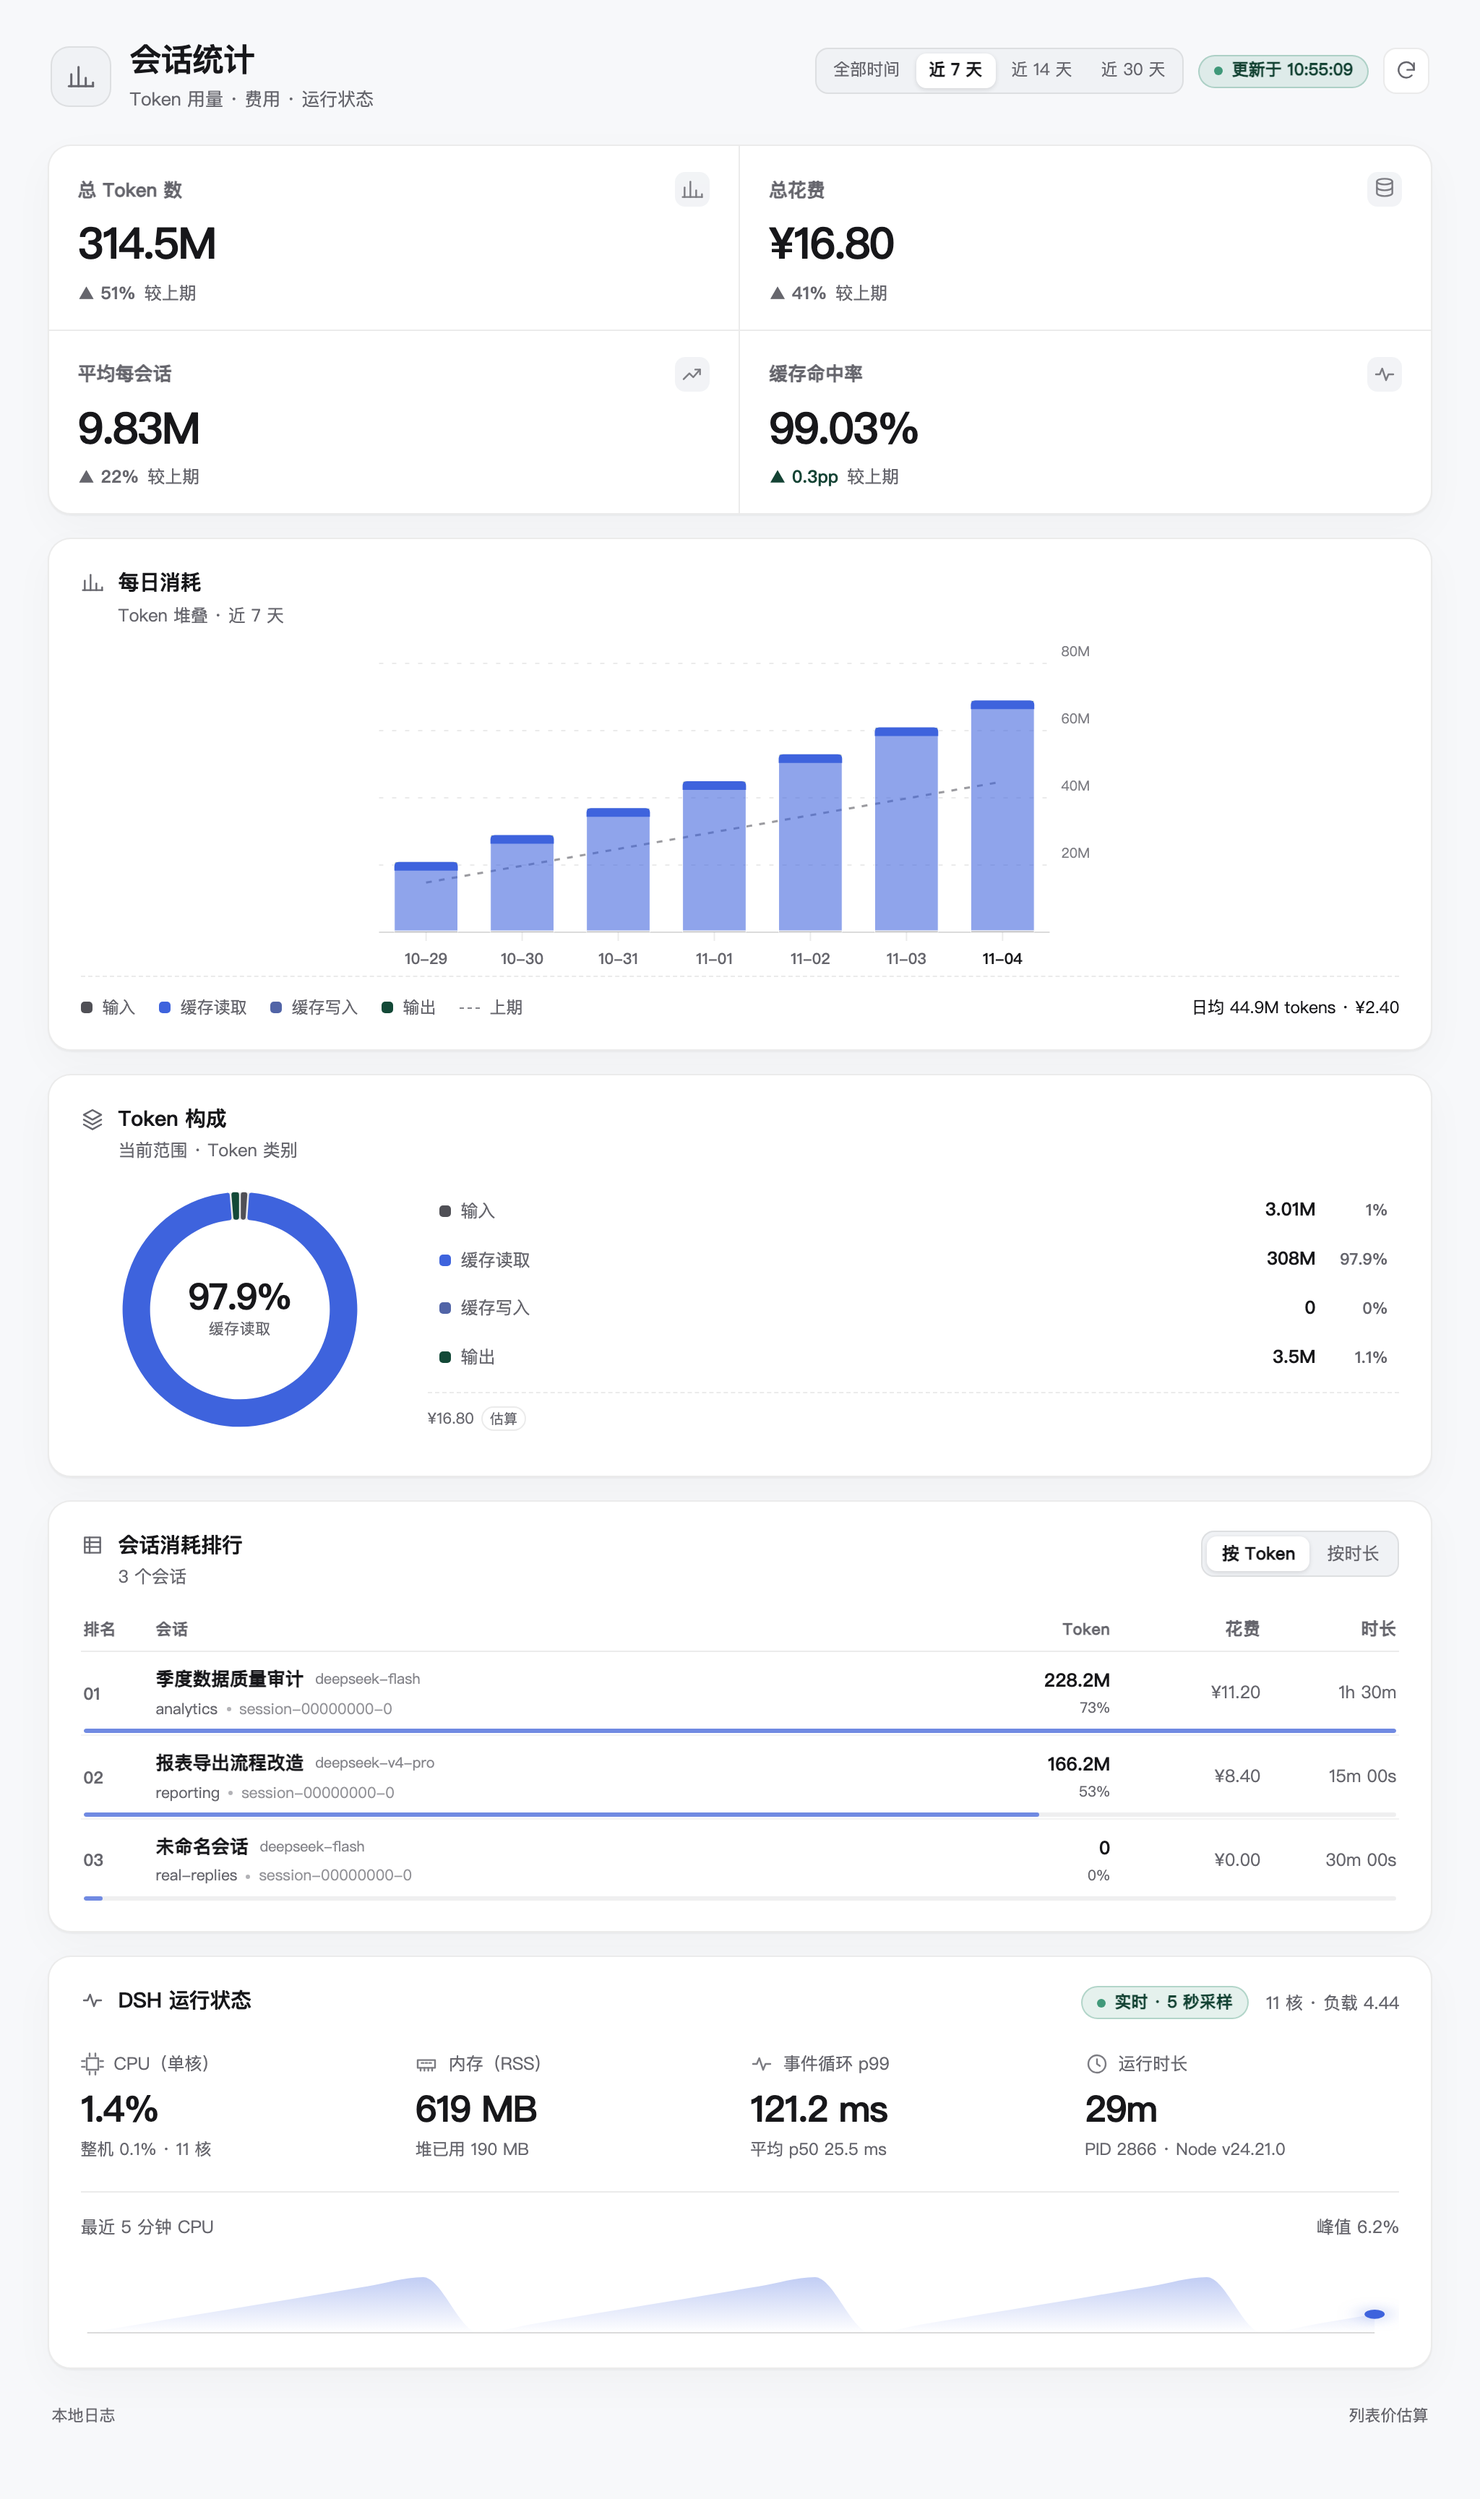
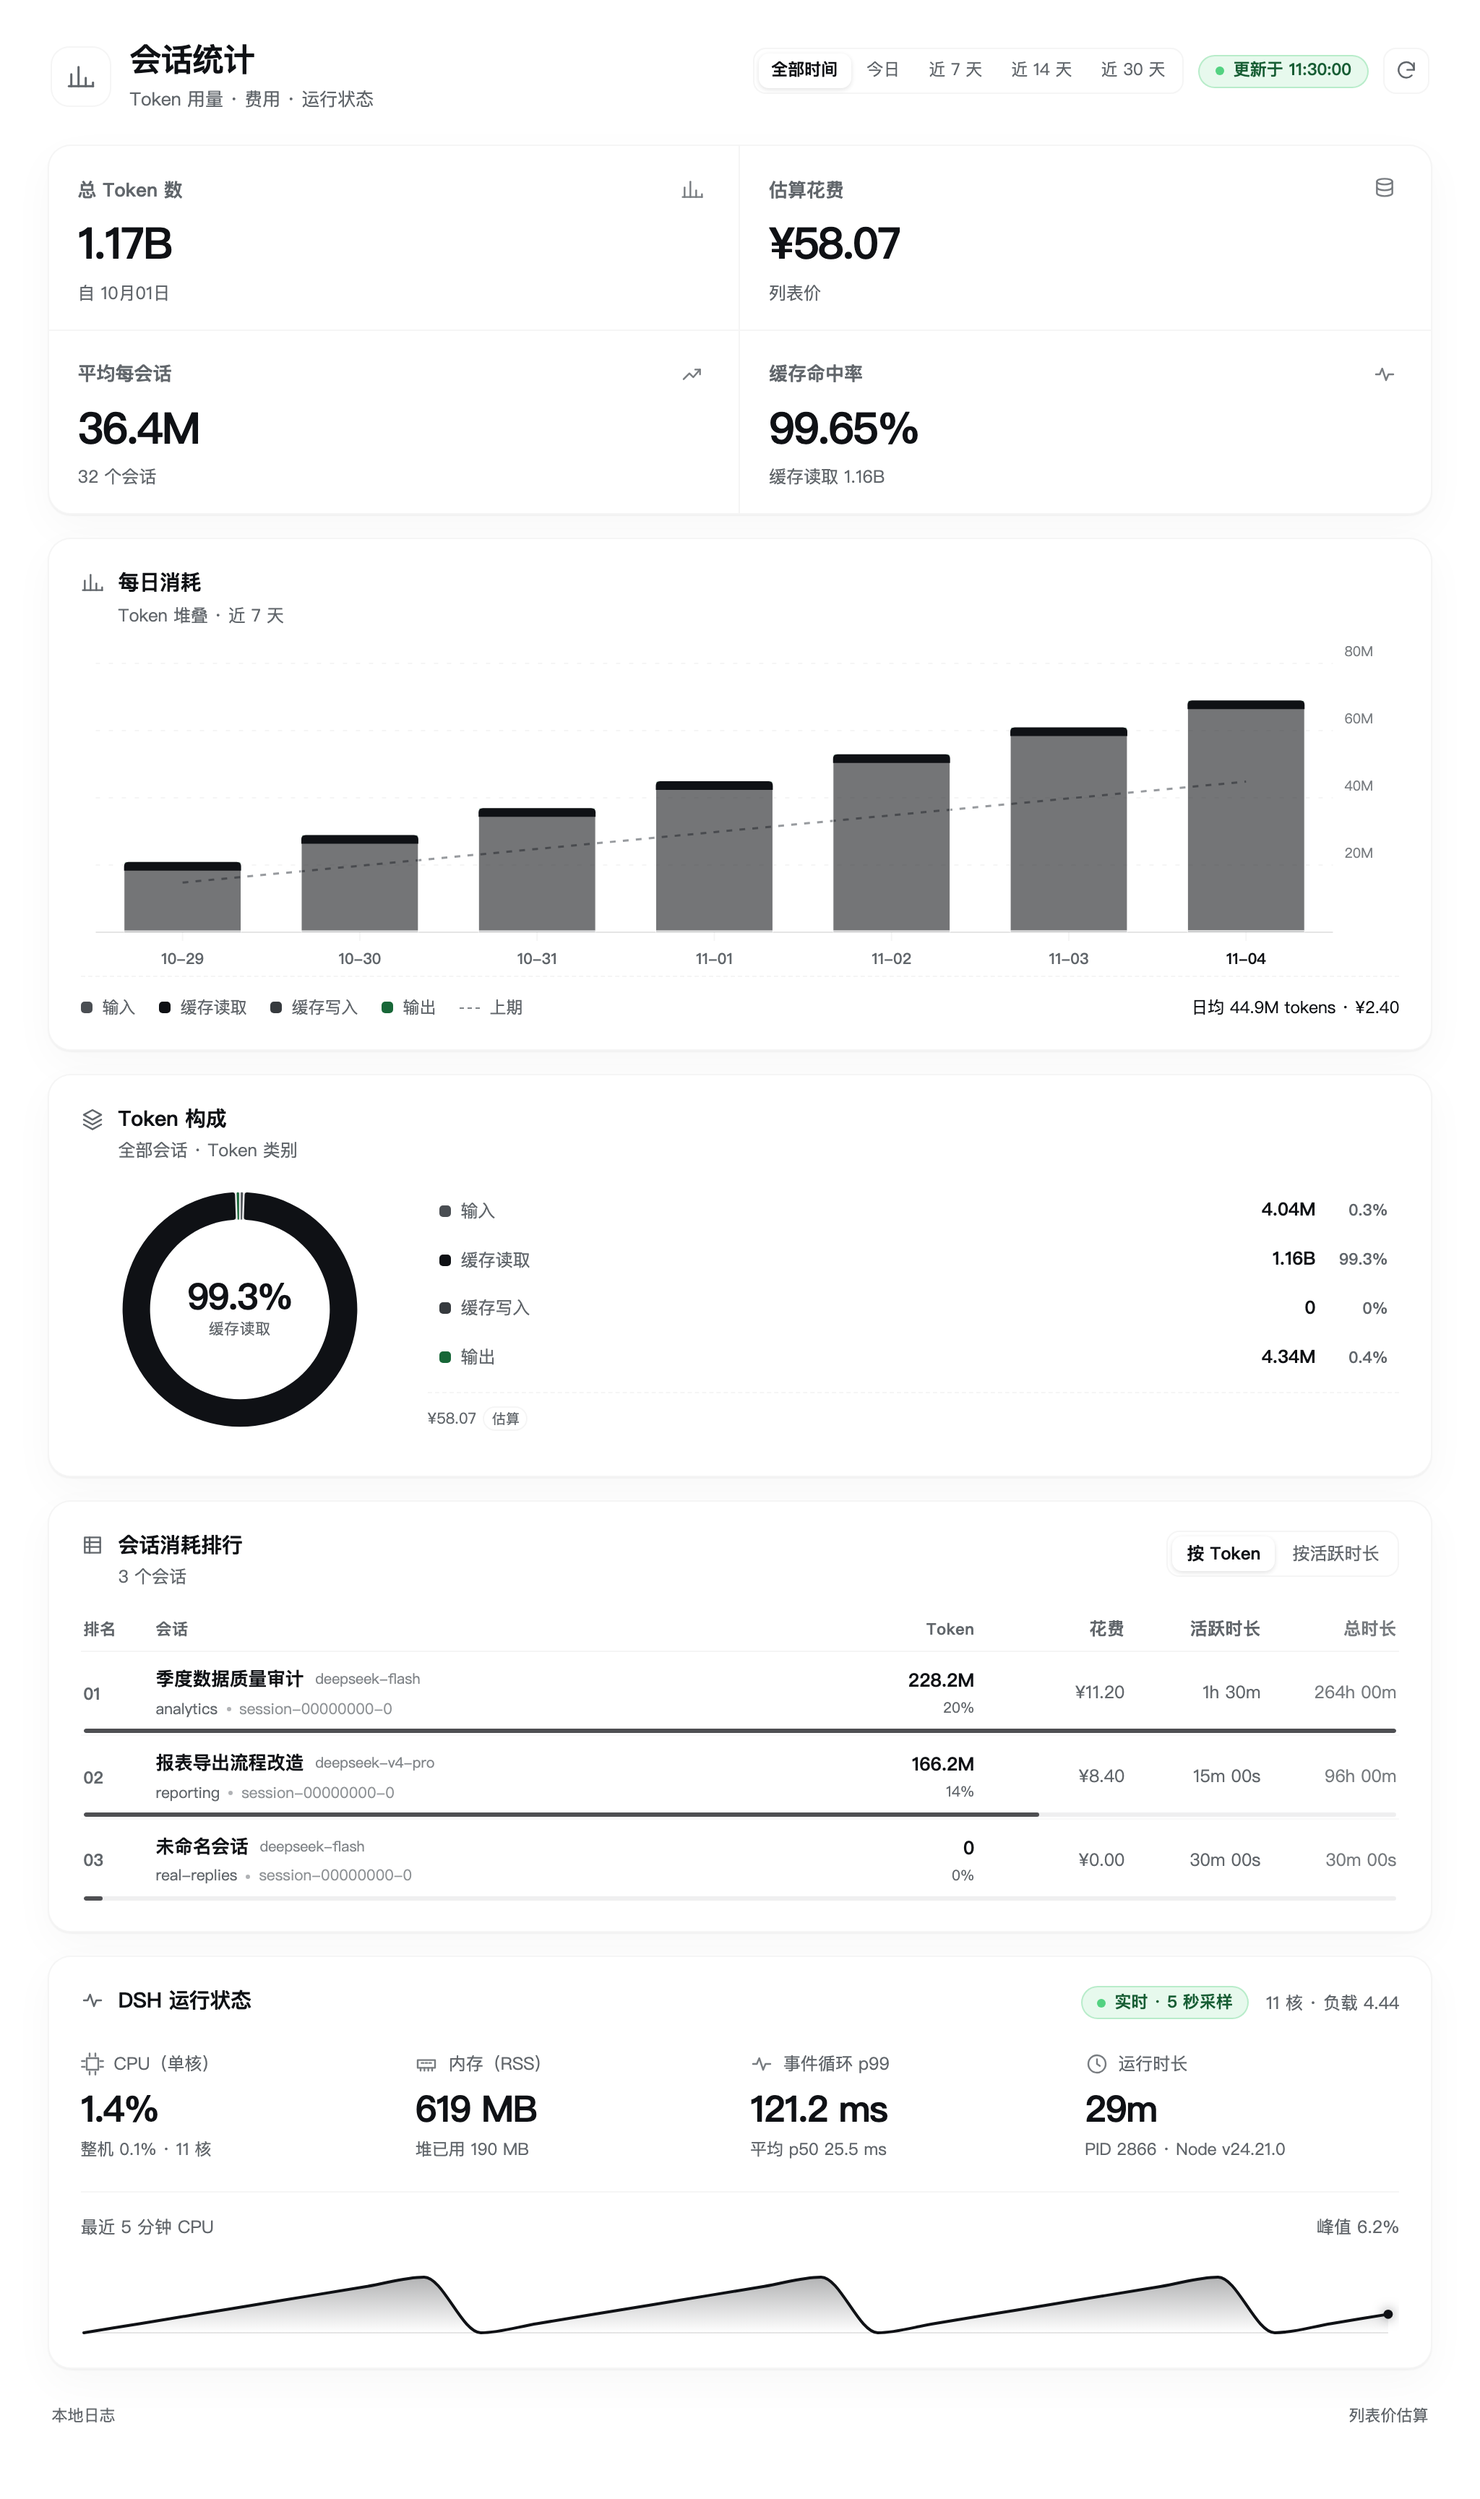
docs: refresh README previews for the current UI
Re-render the dashboard from the current client and the repo's synthetic
fixture at 1440 (light/dark), 1024 and 390, plus the mid-switch pending
state. The previews now show the Today range entry and the active/total
duration columns; the all-time view matches the Host contract
(previous: null), so the KPI strip shows baselines instead of a delta.

Rendering the pending state exposed a contrast regression under current
DSH tokens: the skeleton used --dsw-alias-bg-layer-2, which some themes
resolve to the card surface, leaving only the moving shimmer visible.
Mix the secondary label into that surface for the base and highlight,
and keep the donut placeholder's center bars inside its ring.

Rebuild client.js from the CSS change.

diff --git a/client.js b/client.js
@@ -19,6 +19,11 @@ ${i("kpi.cost.title")}`},{key:"avg",icon:F.createElement(Kn),label:i("kpi.avg"),
   --ss-data-money: color-mix(in srgb, var(--dsw-alias-state-success-primary) 48%, var(--dsw-alias-label-primary));
   --ss-data-input: color-mix(in srgb, var(--dsw-alias-label-secondary) 72%, var(--dsw-alias-label-primary));
   --ss-data-write: color-mix(in srgb, var(--dsw-alias-brand-primary) 52%, var(--dsw-alias-label-secondary));
+  /* Loading placeholders need an opaque tint: \`--dsw-alias-bg-layer-2\` is a
+     pure surface colour and some themes set it to the card background itself,
+     which made the skeleton invisible except for its moving highlight. */
+  --ss-skeleton-base: color-mix(in srgb, var(--dsw-alias-label-secondary) 9%, var(--dsw-alias-bg-layer-2));
+  --ss-skeleton-shine: color-mix(in srgb, var(--dsw-alias-label-secondary) 17%, var(--dsw-alias-bg-layer-2));
   box-sizing: border-box;
   height: 100%;
   min-height: 100%;
@@ -427,9 +432,9 @@ ${i("kpi.cost.title")}`},{key:"avg",icon:F.createElement(Kn),label:i("kpi.avg"),
   border-radius: 7px;
   background: linear-gradient(
     100deg,
-    var(--dsw-alias-bg-layer-2) 20%,
-    color-mix(in srgb, var(--dsw-alias-label-secondary) 14%, var(--dsw-alias-bg-layer-2)) 38%,
-    var(--dsw-alias-bg-layer-2) 56%
+    var(--ss-skeleton-base) 20%,
+    var(--ss-skeleton-shine) 38%,
+    var(--ss-skeleton-base) 56%
   );
   background-size: 220% 100%;
   animation: ss-shimmer 1.5s ease-in-out infinite;
@@ -1310,7 +1315,7 @@ ${i("kpi.cost.title")}`},{key:"avg",icon:F.createElement(Kn),label:i("kpi.avg"),
   position: absolute;
   inset: 8%;
   border-radius: 50%;
-  border: 20px solid var(--dsw-alias-bg-layer-2);
+  border: 20px solid var(--ss-skeleton-base);
   background: transparent;
   animation: none;
 }
@@ -1321,6 +1326,15 @@ ${i("kpi.cost.title")}`},{key:"avg",icon:F.createElement(Kn),label:i("kpi.avg"),
   flex-direction: column;
   align-items: center;
   gap: 8px;
+}
+
+/* Keep the center placeholders inside the ring's inner circle. */
+.ss-donut-skeleton-center .ss-skeleton-value {
+  width: 84px;
+}
+
+.ss-donut-skeleton-center .ss-skeleton-sub {
+  width: 64px;
 }
 
 .ss-composition-value-skeleton {

diff --git a/src/client/styles/base.css b/src/client/styles/base.css
@@ -8,6 +8,11 @@
   --ss-data-money: color-mix(in srgb, var(--dsw-alias-state-success-primary) 48%, var(--dsw-alias-label-primary));
   --ss-data-input: color-mix(in srgb, var(--dsw-alias-label-secondary) 72%, var(--dsw-alias-label-primary));
   --ss-data-write: color-mix(in srgb, var(--dsw-alias-brand-primary) 52%, var(--dsw-alias-label-secondary));
+  /* Loading placeholders need an opaque tint: `--dsw-alias-bg-layer-2` is a
+     pure surface colour and some themes set it to the card background itself,
+     which made the skeleton invisible except for its moving highlight. */
+  --ss-skeleton-base: color-mix(in srgb, var(--dsw-alias-label-secondary) 9%, var(--dsw-alias-bg-layer-2));
+  --ss-skeleton-shine: color-mix(in srgb, var(--dsw-alias-label-secondary) 17%, var(--dsw-alias-bg-layer-2));
   box-sizing: border-box;
   height: 100%;
   min-height: 100%;
@@ -416,9 +421,9 @@
   border-radius: 7px;
   background: linear-gradient(
     100deg,
-    var(--dsw-alias-bg-layer-2) 20%,
-    color-mix(in srgb, var(--dsw-alias-label-secondary) 14%, var(--dsw-alias-bg-layer-2)) 38%,
-    var(--dsw-alias-bg-layer-2) 56%
+    var(--ss-skeleton-base) 20%,
+    var(--ss-skeleton-shine) 38%,
+    var(--ss-skeleton-base) 56%
   );
   background-size: 220% 100%;
   animation: ss-shimmer 1.5s ease-in-out infinite;

diff --git a/src/client/styles/sections.css b/src/client/styles/sections.css
@@ -795,7 +795,7 @@
   position: absolute;
   inset: 8%;
   border-radius: 50%;
-  border: 20px solid var(--dsw-alias-bg-layer-2);
+  border: 20px solid var(--ss-skeleton-base);
   background: transparent;
   animation: none;
 }
@@ -806,6 +806,15 @@
   flex-direction: column;
   align-items: center;
   gap: 8px;
+}
+
+/* Keep the center placeholders inside the ring's inner circle. */
+.ss-donut-skeleton-center .ss-skeleton-value {
+  width: 84px;
+}
+
+.ss-donut-skeleton-center .ss-skeleton-sub {
+  width: 64px;
 }
 
 .ss-composition-value-skeleton {

diff --git a/README.md b/README.md
@@ -12,7 +12,8 @@ DSH 会话日志，提供 Token 用量、费用估算、每日趋势、Token 构
 
 ## 界面预览
 
-预览使用仓库内的合成测试数据，不含真实会话内容。
+预览使用仓库内的合成测试数据，不含真实会话内容；主视图为默认的「全部时间」范围，
+最后一张展示切换到「近 7 天」时的加载占位。
 
 | 浅色 · 1440 | 深色 · 1440 |
 | --- | --- |
